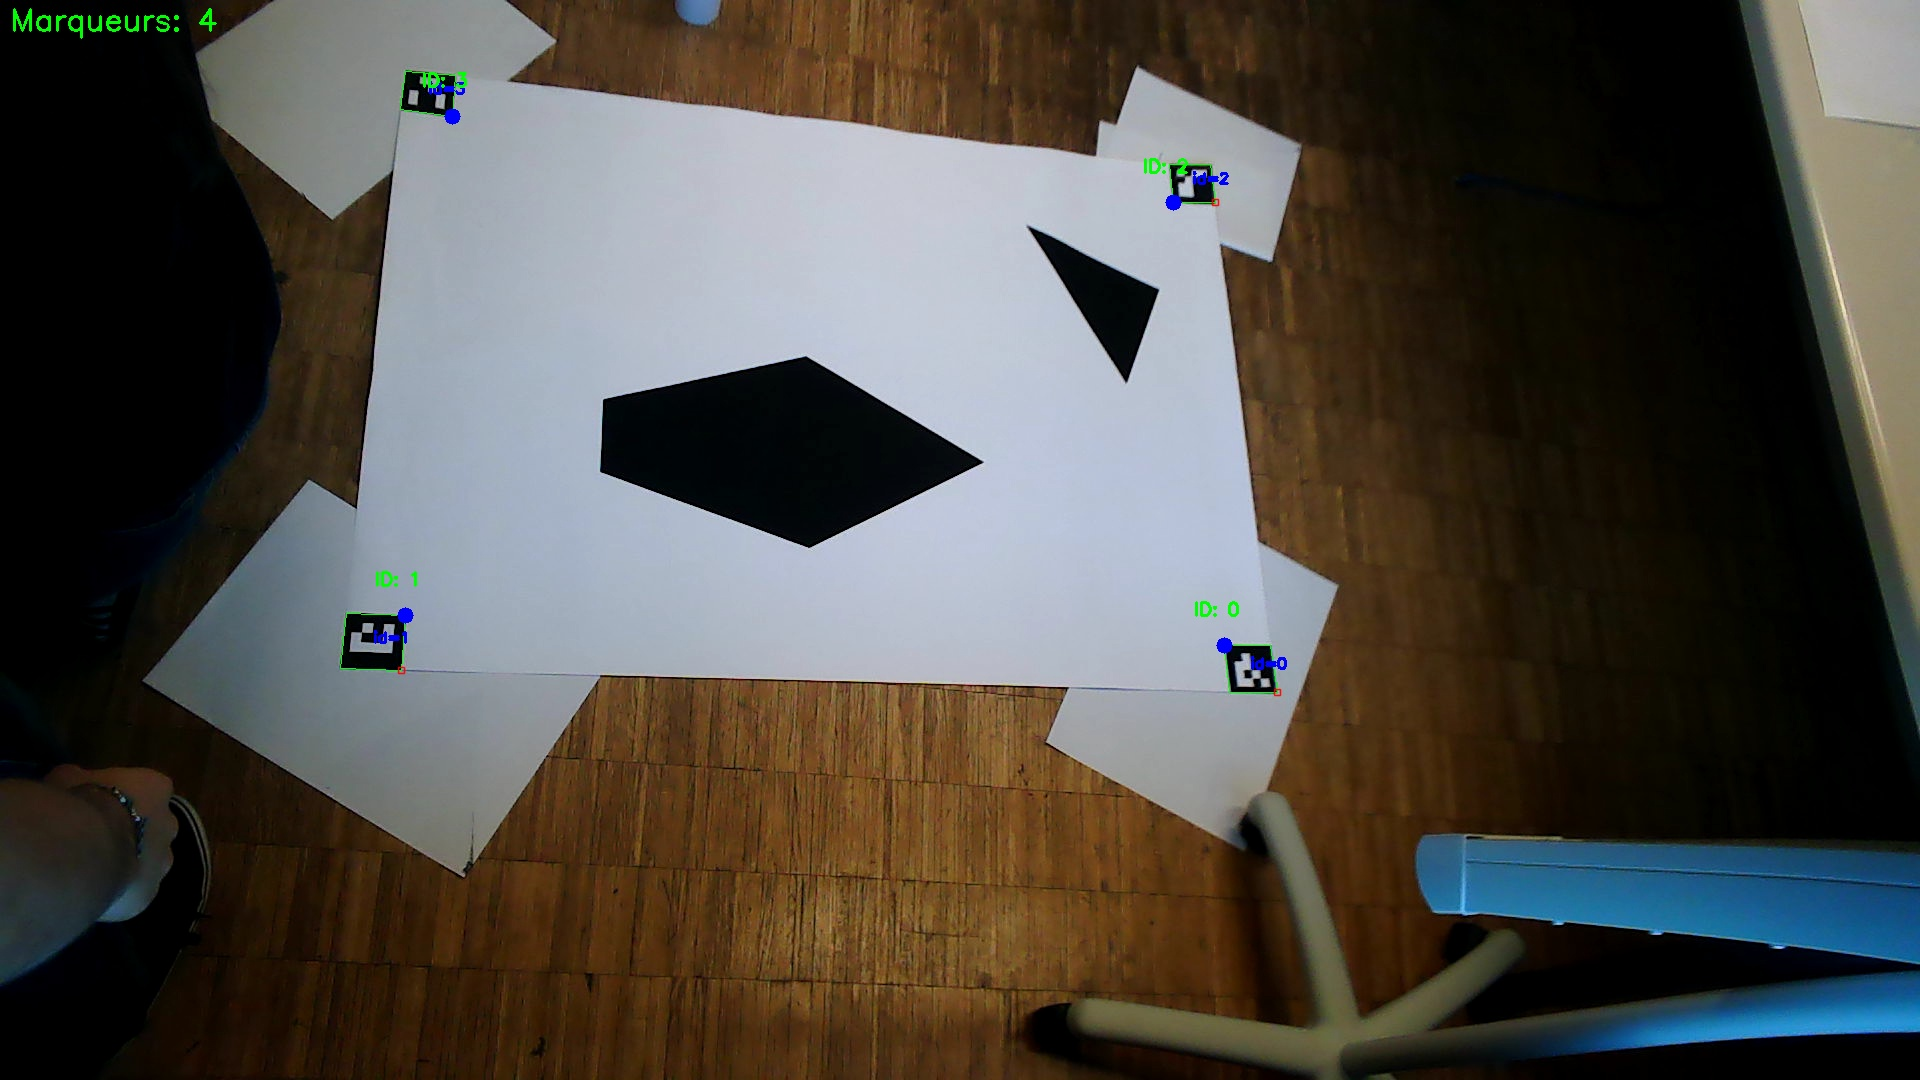
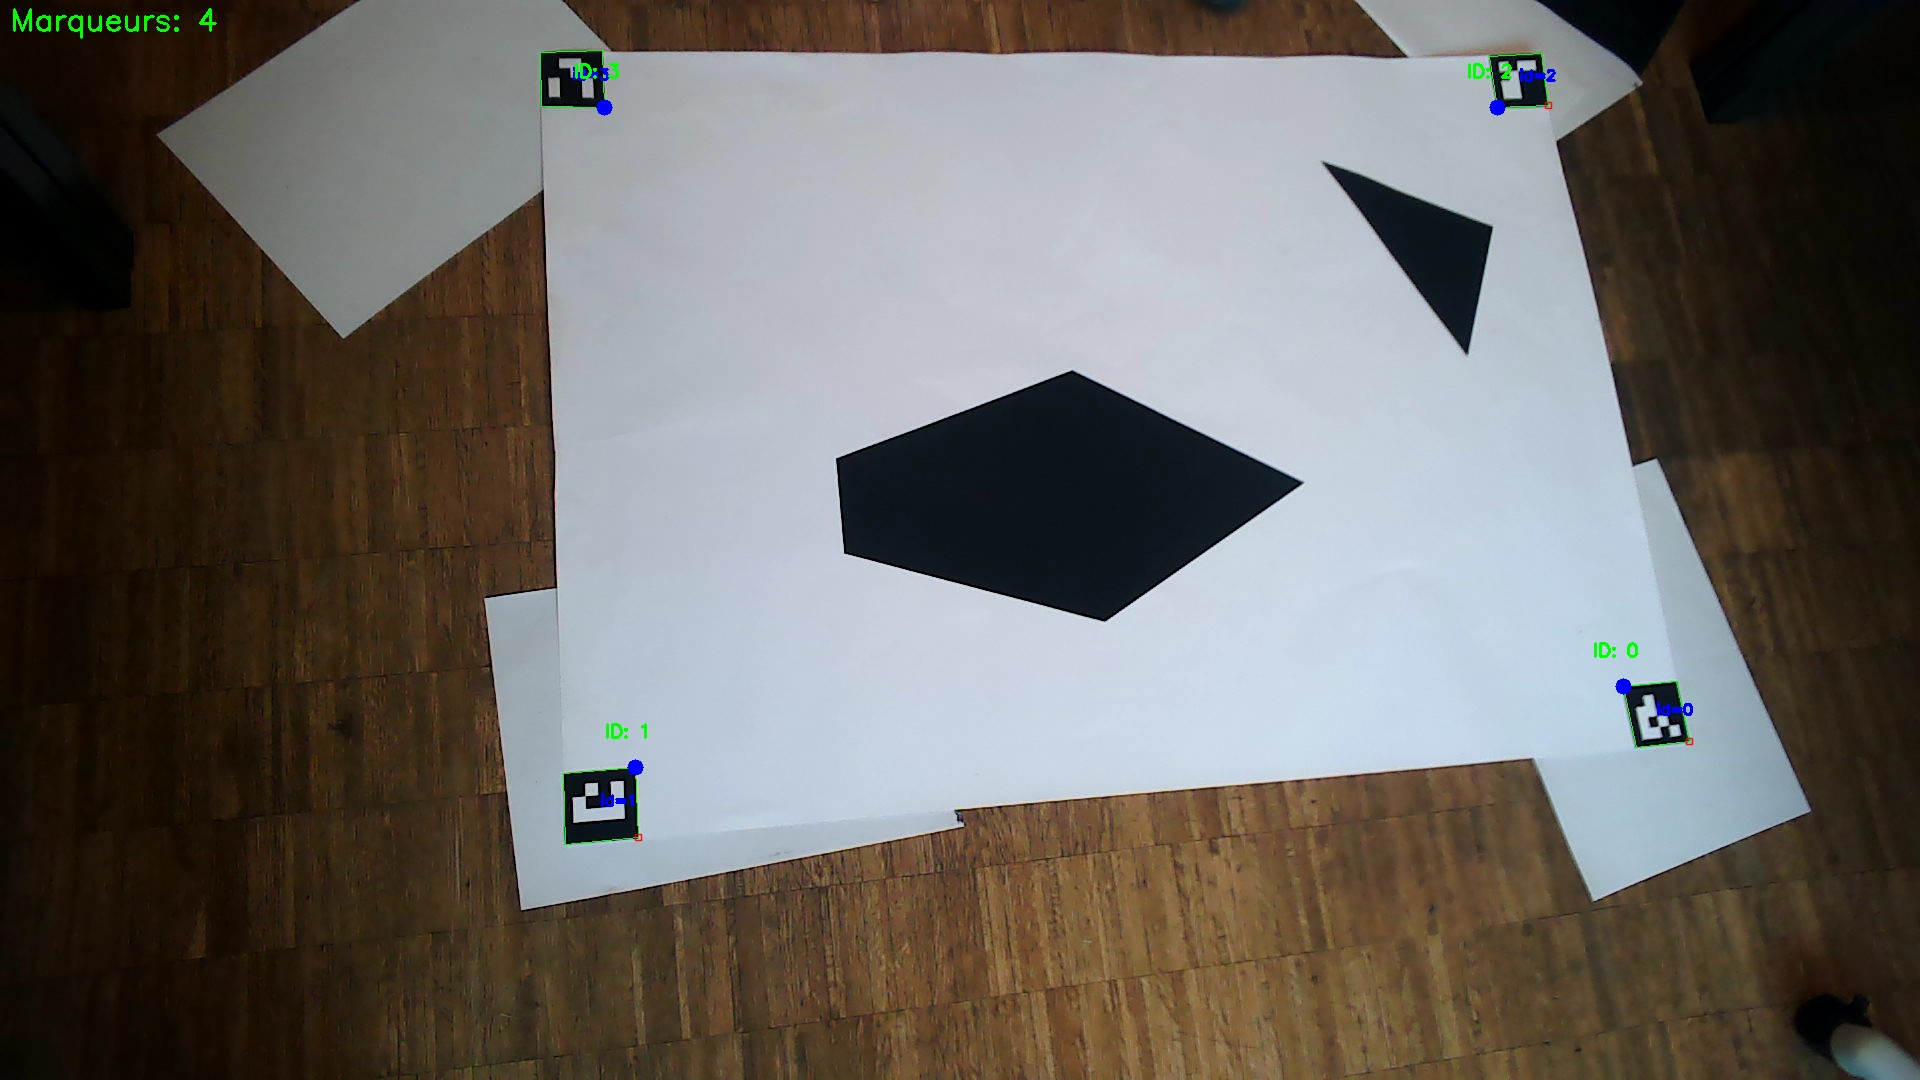
works git add .

diff --git a/src/motion_control.py b/src/motion_control.py
@@ -24,7 +24,7 @@ ESCAPE_DURATION = 1.0        # MODIFIED: Time to drive straight after clearing t
 TARGET_REACHED_DIST_MM = 30.0 
 PATH_TURN_GAIN = 200.0 
 AVOID_TURN_GAIN = 150.0 
-AVOID_BASE_SPEED = cte.MAIN_MOTOR_SPEED * 0.4 
+AVOID_BASE_SPEED = cte.MAIN_MOTOR_SPEED * 0.4
 
 # approx angles (rad) of the 5 front IR sensors in robot frame
 SENSOR_ANGLES = [
@@ -57,7 +57,8 @@ class MotionControl:
         # Memory variables (Obstacle avoidance state)
         self.last_obst_time = 0.0          
         self.last_obst_side = 0            
-        self.avoiding_state = False        
+        self.avoiding_state = False      
+        self.turn_speed = AVOID_TURN_GAIN  
         
         # Escape State variables
         self.is_escaping = False        
@@ -130,24 +131,23 @@ class MotionControl:
         front_vals = prox[0:5] 
         
         is_physically_visible = max(front_vals) > OBST_THRESHOLD
-        
-        # If physically visible, update memory time and state
+
+        # NEW LOGIC : TURN UNTIL OBSTACLES ARE NOT VISIBLE ANYMORE (THEN ESCAPE)
+
         if is_physically_visible:
             self.last_obst_time = time.time()
             self.avoiding_state = True
             self.is_escaping = False # If we see it, we are not escaping!
             return True
         
-        # If sensors are clear, check if we should still be in avoidance mode
-        if self.avoiding_state or self.is_escaping:
-            if (time.time() - self.last_obst_time) < OBSTACLE_MEMORY_DELAY or self.is_escaping:
-                return True
-            else:
-                self.avoiding_state = False # Memory expired, safe to return False
-                self.is_escaping = False
-                return False
-                
-        return False
+        time_since_detection = time.time() - self.last_obst_time
+
+        if self.avoiding_state and time_since_detection < ESCAPE_DURATION:
+            return True
+        else:
+            # Time is up, we are safe to go back to global nav
+            self.avoiding_state = False
+            return False
 
     async def avoid_local_obstacle(self, current_pos):
         ''' 
@@ -160,181 +160,46 @@ class MotionControl:
         front_vals = prox[0:5]
         
         physically_detected = max(front_vals) > OBST_THRESHOLD
-        Fx_rep, Fy_rep = 0.0, 0.0
 
-        # --- ESCAPE STATE EXECUTION (HIGHEST PRIORITY) ---
-        if self.is_escaping:
-            
-            # --- NEW ESCAPE EXIT CONDITION ---
-            time_limit_reached = (time.time() - self.escape_start_time) > ESCAPE_DURATION
-            
-            # Check for lateral re-detection: If the side we are escaping towards is NOT clear.
-            # last_obst_side = 1.0 means we push LEFT (avoiding obstacle on RIGHT). Check rightmost sensor (index 4).
-            # last_obst_side = -1.0 means we push RIGHT (avoiding obstacle on LEFT). Check leftmost sensor (index 0).
-            
-            if self.last_obst_side == 1.0: # Avoiding Right side
-                is_lateral_blocked = front_vals[4] > LATERAL_CLEARANCE_THRESHOLD
-            else: # Avoiding Left side
-                is_lateral_blocked = front_vals[0] > LATERAL_CLEARANCE_THRESHOLD
-
-            
-            # 1. Check if duration is over AND lateral path is clear, OR if a frontal obstacle is suddenly visible
-            
-            if physically_detected or (time_limit_reached and not is_lateral_blocked):
-                self.is_escaping = False
-                
-                if physically_detected:
-                     # If it reappeared frontally, continue to full avoidance below
-                     pass 
-                else:
-                     # Escape finished successfully (time up and lateral clear), stop avoidance 
-                     self.avoiding_state = False 
-                     return # End the avoidance cycle immediately, let main switch to follow_path
-            
-            # If the time limit is reached but the lateral path is STILL blocked,
-            # we stay in the escape state and continue straight until it's clear.
-            
-            # 2. Execute straight movement with slight lateral push
-            if self.is_escaping:
-                # Strong forward force (Fx) and a slight correction (Fy)
-                Fx = 1.7
-                Fy = 0 * self.last_obst_side 
-                
-                # Apply movement commands
-                force_angle = math.atan2(Fy, Fx) 
-                ang_err = math.atan2(math.sin(force_angle), math.cos(force_angle))
-                
-                # --- MODIFIED CALCULATION FOR ESCAPE ---
-                
-                # 1. Enforce high, constant forward speed (Base)
-                base = cte.MAIN_MOTOR_SPEED 
-                
-                # 2. Use the path turn gain for precision, as this is a controlled escape
-                turn = PATH_TURN_GAIN * ang_err 
-                
-                # --- END MODIFIED CALCULATION ---
-
-                v_left = base - turn
-                v_right = base + turn
-
-                await self.node.set_variables(motors(v_left, v_right))
-                await self.client.sleep(0.05)
-                return # Skip PF calculation
-        # --- END ESCAPE STATE EXECUTION ---
-
-        # --- POTENTIAL FIELD CALCULATION ---
-        
+        # CASE A: OBSTACLE VISIBLE -> TURN AWAY
         if physically_detected:
+            # Reset escape timer (we are still dealing with the object)
+            self.last_obst_time = time.time()
             
-            # === STEP A.1: Calculate RAW Repulsive Force (Tangential Force Generation) ===
-            max_val = 0
-            max_idx = -1
-            
-            for i, val in enumerate(front_vals):
-                if val > max_val:
-                    max_val = val
-                    max_idx = i
-            
-            if max_idx != -1 and max_val > COLLISION_DISTANCE:
-                
-                ang_obs = SENSOR_ANGLES[max_idx]
-                magnitude = TANGENTIAL_GAIN * (max_val - COLLISION_DISTANCE) / PROX_MAX
-                
-                # Decision for turn direction
-                if max_idx in [0, 1]:  # Obstacle on the left side
-                    push_direction = -1.0 # Push RIGHT (Turn Left)
-                else:                  # Obstacle on the right side (or center)
-                    push_direction = 1.0  # Push LEFT (Turn Right)
-                    
-                tangential_angle = ang_obs # + push_direction * (math.pi / 2)
-                
-                Fx_rep = magnitude * math.cos(tangential_angle)
-                Fy_rep = magnitude * math.sin(tangential_angle)
-                
-                # Update Memory
-                self.last_obst_side = push_direction
-                self.last_obst_time = time.time()
-            
-            # Emergency Stop logic (reduced speed)
-            if max(front_vals) > DANGER_THRESHOLD:
-                # Note: The *0.5 scale factor is applied here to reduce the spin rate.
-                v_left = -cte.MAIN_MOTOR_SPEED * self.last_obst_side 
-                v_right = cte.MAIN_MOTOR_SPEED * self.last_obst_side 
-                await self.node.set_variables(motors(v_left, v_right))
-                await self.client.sleep(0.05)
-                return
+            # Simple decision: Left or Right?
+            # Sum sensors on left vs right to decide direction
+            # Left side: indices 0, 1. Right side: indices 3, 4. Center: 2
+            left_sum = front_vals[0] + front_vals[1]
+            right_sum = front_vals[3] + front_vals[4]
 
-        else:
-            # === CASE B: Blind Spot (Memory Mode) - TRANSITION TO ESCAPE ===
-            # Sensors are clear, but avoidance memory is still active.
-            if self.avoiding_state:
-                # The initial turn is complete. Trigger the straight escape phase NOW.
-                self.is_escaping = True
-                self.escape_start_time = time.time()
-                
-                # The function will now exit and re-run, executing the ESCAPE LOGIC block above.
-                return 
-
-        # STEP 3: Attractive Force (Goal)
-        # We only reach here if the robot is *not* escaping, either in full avoidance or memory fade-out
-        if physically_detected:
-            # Low attraction when direct physical avoidance is needed
-            current_att_gain = ATT_GAIN * 0.2
+            if left_sum > right_sum:
+                # Obstacle is on the LEFT -> Turn RIGHT (Push -1)
+                self.last_obst_side = 1.0 
+            else:
+                # Obstacle is on the RIGHT -> Turn LEFT (Push 1)
+                self.last_obst_side = -1.0
             
-        elif self.is_escaping:
-            # Moderate attraction during controlled straight escape
-            current_att_gain = ATT_GAIN * 0.4 
-            
-        elif self.avoiding_state:
-            # CRITICAL FIX: Keep attraction low during the transition/memory phase (Case B)
-            # This prevents the robot from snapping back to the obstacle.
-            current_att_gain = ATT_GAIN * 0.1
-            
-        else:
-            # High attraction only when avoidance is truly finished (Memory expired)
-            current_att_gain = ATT_GAIN * 0.8
+            # Apply turn based on side
+            base = cte.MAIN_MOTOR_SPEED
+            v_left = base + (self.turn_speed * self.last_obst_side)
+            v_right = base - (self.turn_speed * self.last_obst_side)
 
-        x, y, theta = current_pos
-        target_x, target_y = self.path[self.current_target_idx]
-        dx = target_x - x
-        dy = target_y - y
-
-        ang_goal = math.atan2(dy, dx)
-        ang_goal_robot = ang_goal - theta
-        ang_goal_robot = math.atan2(math.sin(ang_goal_robot), math.cos(ang_goal_robot))
-
-        Fx_att = current_att_gain * math.cos(ang_goal_robot)
-        Fy_att = current_att_gain * math.sin(ang_goal_robot)
-        
-        # Resultant Force
-        Fx = Fx_att + Fx_rep
-        Fy = Fy_att + Fy_rep
-
-        if Fx == 0.0 and Fy == 0.0:
-            await self.move() 
+            await self.node.set_variables(motors(v_left, v_right))
             return
-         
-        # Translate to wheel speeds
-        force_angle = math.atan2(Fy, Fx) 
         
-        # Tweak: Dampen angle change when repulsive forces are fading
-        if not physically_detected:
-            force_angle = force_angle * 0.8 
-
-        ang_err = math.atan2(math.sin(force_angle), math.cos(force_angle))
-
-        base = AVOID_BASE_SPEED * max(0.2, math.cos(ang_err)) 
-        turn = AVOID_TURN_GAIN * ang_err
-
-        v_left = base - turn
-        v_right = base + turn
-
-        self.left_command = v_left
-        self.right_command = v_right
-
-        await self.node.set_variables(motors(v_left, v_right))
-        await self.client.sleep(0.05)
-        return 
+        # CASE B: OBSTACLE NOT VISIBLE -> ESCAPE
+        else:
+            # We are in the escape duration (guaranteed by see_local_obstacle returning True)
+            
+            # Drive Straight Forward
+            # We can add a tiny bias away from the last known obstacle side if desired,
+            # but you requested straight.
+            
+            v_left = cte.MAIN_MOTOR_SPEED
+            v_right = cte.MAIN_MOTOR_SPEED
+            
+            await self.node.set_variables(motors(v_left, v_right))
+            return
 
     # ----------------------------------------------------------------------
     ### Getters and Setters ================
